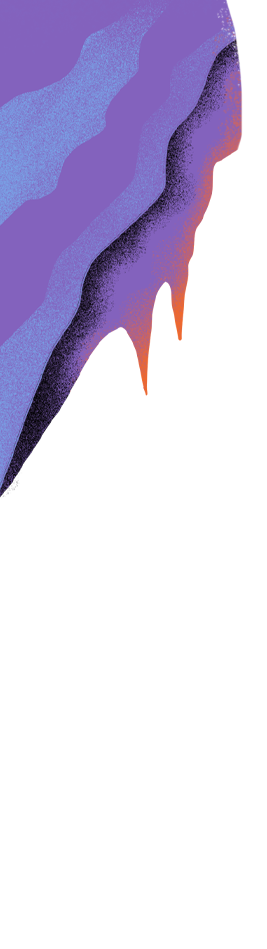
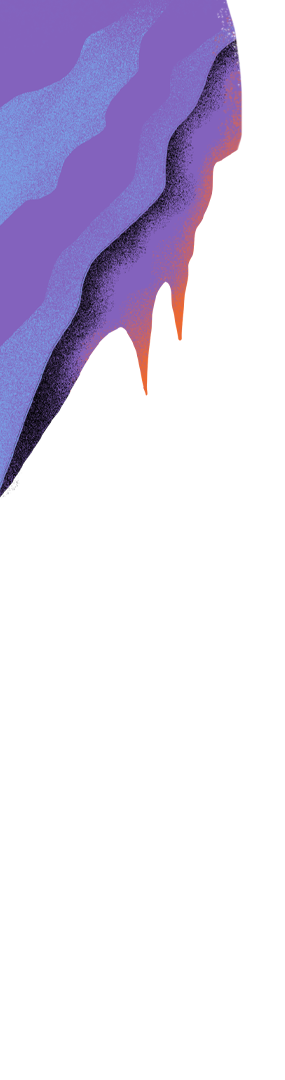
scrolltrigger

Changed region(s): [[0.0, 0.0, 0.9288, 0.5195], [0.0, 0.0306, 0.5393, 0.2445], [0.0, 0.0306, 0.3596, 0.1222]]

diff --git a/moodring/moodring/scrollAnimations.js b/moodring/moodring/scrollAnimations.js
@@ -1,97 +1,101 @@
 gsap.registerPlugin(ScrollTrigger);
 ScrollTrigger.defaults({
   toggleActions: "restart pause reverse pause", // onEntry onLeaving onReEntry
-  // markers: true,
+  markers: true,
 });
 
 function init() {
+
   gsap.timeline({
-      scrollTrigger: {
-        trigger: "#beginLvl",
-        start: "10", //animation starts at this point  - 20 px above the top of the trigger element
-        end: "+=500",
-        scrub: true, // locks animation to scrollbar - can use 1, 2, 3 etc
-        // pinSpacing: false,
-        // pin: "#seekBtn"
-      },
-    })
-    // .to(".beginLvlRow1", { y: -40})
-    // .to("#beginLvlRow2", { y: -40})
-    // .to("#beginBtn", { y: 50})
-    //  .to("#spacer0", { opacity: 1})
-
-
-
+    scrollTrigger: {
+      trigger: "#beginLvl",
+      start: "10", //animation starts at this point  - 20 px above the top of the trigger element
+      end: "+=500",
+      scrub: true, // locks animation to scrollbar - can use 1, 2, 3 etc
+      // pinSpacing: false,
+      // pin: "#seekBtn"
+    },
+  })
+  //.to(".beginLvlRow1", { y: -40});
+  // .to("#beginLvlRow2", { y: -40})
+  .to("#beginBtn", { y: 50});
+  //  .to("#spacer0", { opacity: 1})
 
   // **elements: onenter onleave onEnterBack onLeaveBack
   // toggleActions:"restart pause reverse reset"
   // **options: play pause restart reverse resume reset complete reverse none
 
-  gsap.timeline({
-    scrollTrigger: {
-      trigger: "#spacer0",
-      start: 50, //animation starts at this point  - 20 px above the top of the trigger element
-      end: "+=300",
-      scrub: true, // locks animation to scrollbar - can use 1, 2, 3 etc
-      // pinSpacing: false,
-      // pin: "#seekBtn"
-    },
-  })
-  .from("#spacer0", {opacity: 0})
+  gsap
+    .timeline({
+      scrollTrigger: {
+        trigger: "#beginLvl",
+        start: "center center", //animation starts at this point  - 20 px above the top of the trigger element
+        end: "+=300",
+        scrub: true, // locks animation to scrollbar - can use 1, 2, 3 etc
+      },
+    })
+    .from("#spacer0", { opacity: 0 });
 
-  gsap.timeline({
-    scrollTrigger: {
-      trigger: "#playerQuestionLvl",
-      start: 350, //animation starts at this point  - 20 px above the top of the trigger element
-      end: "+=300",
-      scrub: true, // locks animation to scrollbar - can use 1, 2, 3 etc
-      // pinSpacing: false,
-      // pin: "#seekBtn"
-    },
-  })
-  .from("#playerQuestionLvl", {opacity: 0})
+  gsap
+    .timeline({
+      scrollTrigger: {
+        trigger: "#beginBtn",
+        start: "10px", //animation starts at this point  - 20 px above the top of the trigger element
+        end: "+=600",
+        scrub: true, // locks animation to scrollbar - can use 1, 2, 3 etc
+        // pinSpacing: false,
+        // pin: "#seekBtn"
+      },
+    })
+    // .from("#playerQuestionLvl", { opacity: 0 });
 
-  gsap.timeline({
-    scrollTrigger: {
-      trigger: "#beginBtn",
-      // pin: true,
-      start: "5", //animation starts at this point  - 20 px above the top of the trigger element
-      end: "+=550",
-      scrub: true, // locks animation to scrollbar - can use 1, 2, 3 etc
-      // pinSpacing: false,
-      // pin: "#seekBtn"
-    },
-  })
-  .from("#plantLady", { scale: 0.8, autoAlpha: 0, y: -60})
-  .from("#whatDoYouSeek", { scale: 0.8, autoAlpha: 0})
+  gsap
+    .timeline({
+      scrollTrigger: {
+        trigger: "#beginBtn",
+        // pin: true,
+        start: "1px", //animation starts at this point  - 20 px above the top of the trigger element
+        end: "+=550",
+        scrub: true, // locks animation to scrollbar - can use 1, 2, 3 etc
+        // pinSpacing: false,
+        // pin: "#seekBtn"
+      },
+    })
+    .from("#plantLady", { scale: 0.3, autoAlpha: 0, y: -60 })
+    .from("#whatDoYouSeek", { scale: 0.8, autoAlpha: 0 });
   // .from("#seekText", { scale: 0.7, autoAlpha: .2 })
   // .from("#seekBtn", { y: innerHeight * 1 })
 
-  gsap.timeline({
-    scrollTrigger: {
-      trigger: "#seekBtn",
-      start: "10", //animation starts at this point  - 20 px above the top of the trigger element
-      end: "+=400",
-      scrub: true, // locks animation to scrollbar - can use 1, 2, 3 etc
-      // pinSpacing: false,
-      // pin: "#seekBtn"
-    },
-  })
-  .from("#greenSwimmer", { y: innerHeight, scale: 0.2, autoAlpha: 0 })
-}
+  gsap
+    .timeline({
+      scrollTrigger: {
+        trigger: "#spacer1",
+        start: "10", //animation starts at this point  - 20 px above the top of the trigger element
+        end: "+=400",
+        scrub: true, // locks animation to scrollbar - can use 1, 2, 3 etc
+        // pinSpacing: false,
+        // pin: "#seekBtn"
+      },
+    })
+    .from("#greenSwimmer", { y: innerHeight, scale: 0.2, autoAlpha: 0 })
+    .from("#questionstxt", { y: innerHeight, scale: 0.2, autoAlpha: 0 });
 
-gsap.timeline({
-  scrollTrigger: {
-    trigger: "#findSongLvl",
-    // pin: true,
-    start: "5", //animation starts at this point  - 20 px above the top of the trigger element
-    end: "+=550",
-    scrub: true, // locks animation to scrollbar - can use 1, 2, 3 etc
-    // pinSpacing: false,
-    // pin: "#seekBtn"
-  },
-})
-.from("#blueSwimmer", { scale: 0.8, autoAlpha: 0, y: -60, rotate: 360})
+          /*
+  gsap
+    .timeline({
+      scrollTrigger: {
+        trigger: "#findSongLvl",
+        // pin: true,
+        start: "5", //animation starts at this point  - 20 px above the top of the trigger element
+        end: "+=550",
+        scrub: true, // locks animation to scrollbar - can use 1, 2, 3 etc
+        // pinSpacing: false,
+        // pin: "#seekBtn"
+      },
+    })
+    .from("#blueSwimmer", { scale: 0.8, autoAlpha: 0, y: -60, rotate: 360 });
+    */
+}
 
 window.addEventListener("load", function () {
   init();

diff --git a/moodring/moodring/styles.css b/moodring/moodring/styles.css
@@ -563,7 +563,7 @@ textarea {
   width: 100vw;
   background: url(images/walls/7l.png), url(images/walls/7r.png);
   background-position: top 0 left 0, top 0 right 0;
-  background-size: auto 87%, auto 87%;
+  background-size: auto 100%, auto 100%;
   background-repeat: no-repeat, no-repeat;
 }
 
